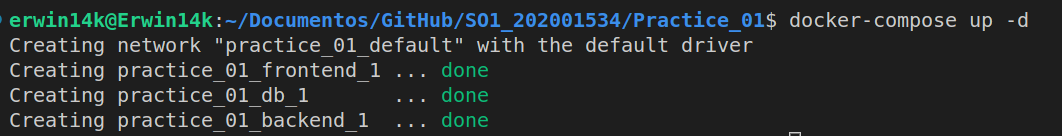
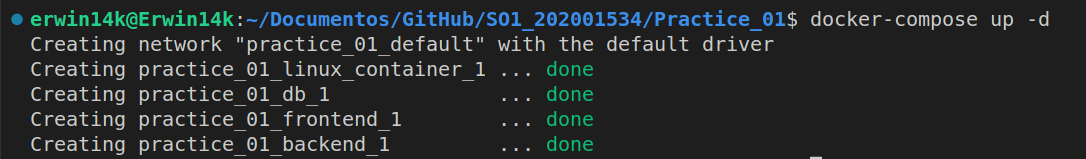
Script & Bash Container Updates
- Date Report Update
- Time Zones Applied In Containers
- Bash Container Documentation Added

diff --git a/Practice_01/README.md b/Practice_01/README.md
@@ -69,15 +69,15 @@
       mismas se encuentran a continuación:
     </p>
     <ul>
-      <li>Backend: <a>https://hub.docker.com/repository/docker/erwin14k/calculator_back_end/general</a></li>
-      <li>Frontend: <a>https://hub.docker.com/repository/docker/erwin14k/calculator-front-end/general</a></li>
+      <li><a href="https://hub.docker.com/repository/docker/erwin14k/calculator_back_end/general">Backend Calculator in Docker Hub</a></li>
+      <li><a href="https://hub.docker.com/repository/docker/erwin14k/calculator-front-end/general">Frontend Calculator in Docker Hub</a></li>
     </ul>
     <p>
       Además se utilizó una imágen para la base de datos, se utilizó la oficial
       de MySQL en su versión 8.0.32, la documentación oficial se encuentrá a continuación:
     </p>
     <ul>
-      <li><a>https://hub.docker.com/_/mysql</a></li>
+      <li><a href="https://hub.docker.com/_/mysql">MySQL in Docker Hub</a></li>
     </ul>
     <p>
       Para la base de datos se creó adicionalmente un volumen, el cuál almacenará
@@ -89,7 +89,7 @@
       a múltiples contenedores con un solo script, de manera que no haría falta
       irlos levantando uno por uno, el archivo para ejecutar el docker-compose, 
       debe ser con extensión ".yaml", los comandos tanto para iniciar un
-      docker-compose como para terminarlo se muestran a continuacióne:
+      docker-compose como para terminarlo se muestran a continuación:
     </p>
     <ul>
       <li>Levantar Contenedores: docker-compose up -d</li>
@@ -104,6 +104,45 @@
         <img src="./Images/down.png" alt="Backbone Network">
       </div>
     </ul>
-    
+    <h2>Bash Container</h2>
+    <p>
+      El contenedor de bash, es necesario para ejecutar un script, el cual
+      funciona para llevar un control en forma de reportes, este contenedor
+      comparte un volumen con el contenedor de backend, por lo cual, al haber 
+      una actualización en el archivo a analizar de parte del backend, este 
+      contenedor también puede ver reflejados los cambios y mostrar reportes
+      de manera actualizada, algunos comandos que fueron utilizados para dejar
+      configurado de manera correcta este contenedor son:
+    </p>
+    <ul>
+      <li>Copiar el script al volumen del contenedor: 
+        <ul>
+          <li>docker cp reportsScript.sh practice_01_linux_container_1:/app/Backend</li>
+        </ul>
+      </li>
+      <li>Acceder al contenedor bash: 
+        <ul>
+          <li>docker exec -it practice_01_linux_container_1 /bin/sh</li>
+        </ul>
+      </li>
+      <li>Darle permisos de ejecución al script: 
+        <ul>
+          <li>chmod +x reportsScript.sh</li>
+        </ul>
+      </li>
+      <li>Ejecutar el script: 
+        <ul>
+          <li>./reportsScript.sh</li>
+        </ul>
+      </li>
+    </ul>
+    <p>
+      La imagen utilizada para este contenedor la puedes encontrar en el siguiente 
+      enlace:
+    </p>
+    <ul>
+      <li><a href="https://hub.docker.com/_/bash">Bash in Docker Hub</a></li>
+    </ul>
+    <p>
   </body>
 </html>
